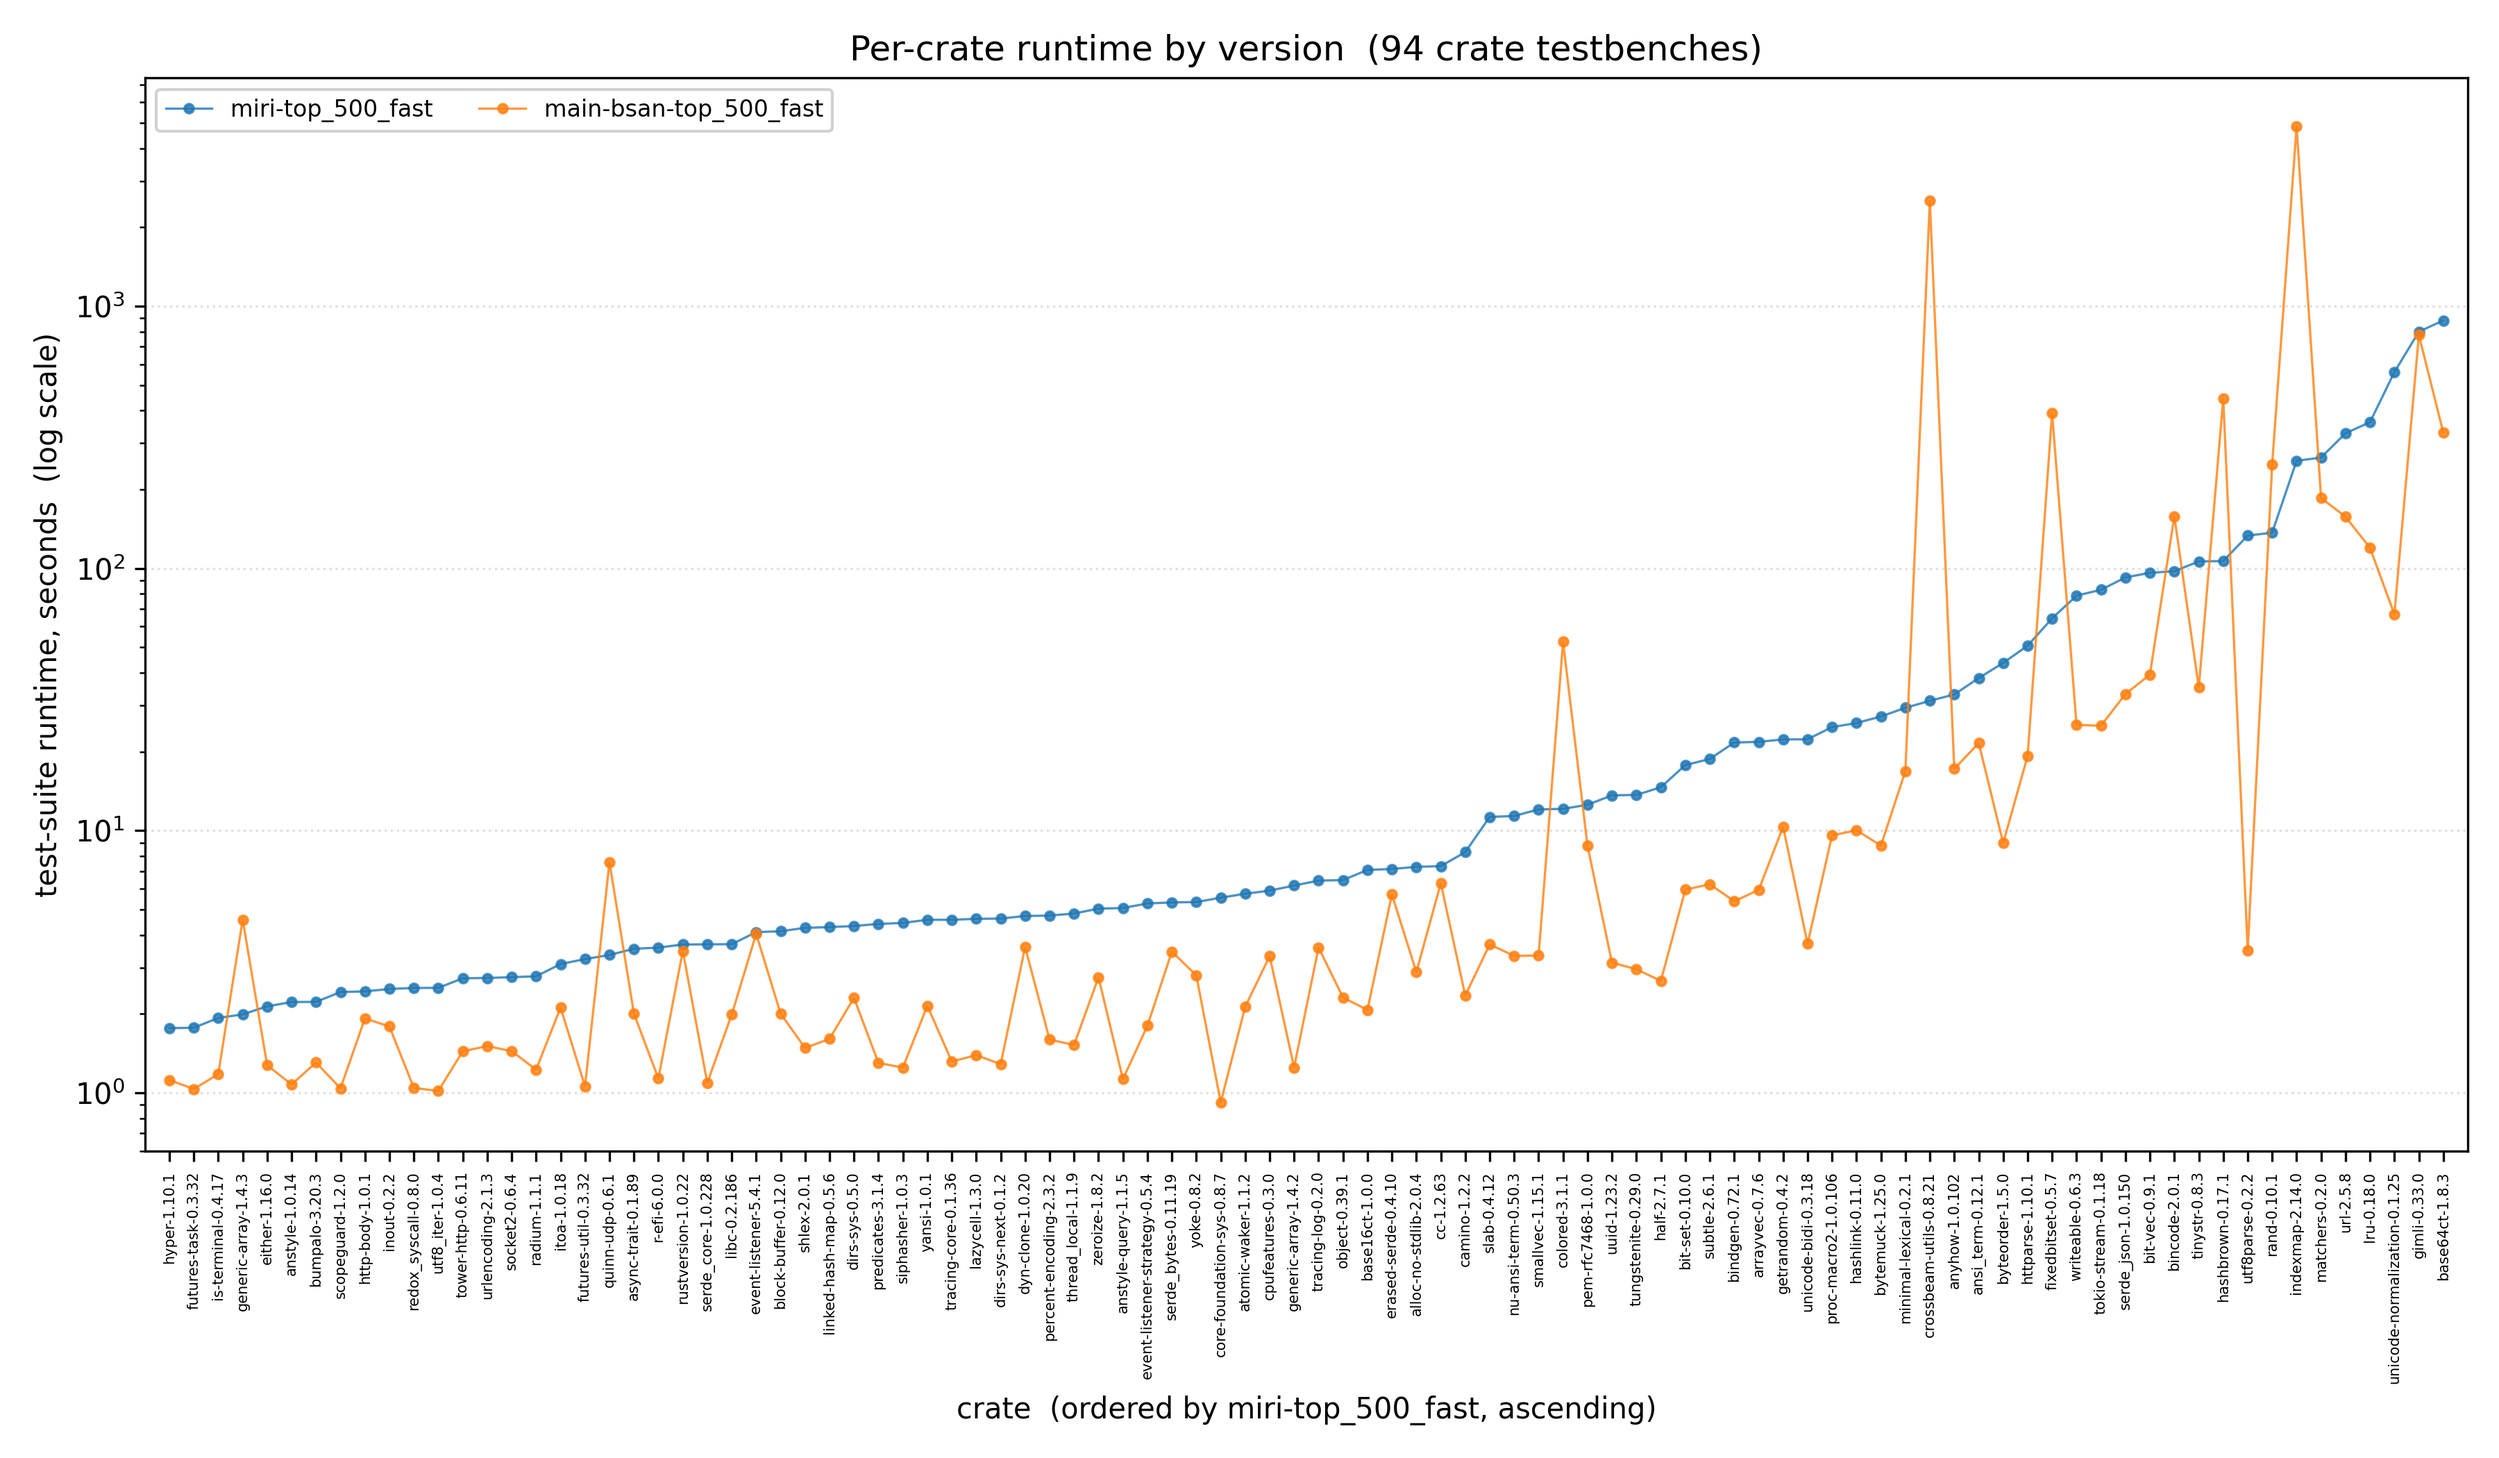
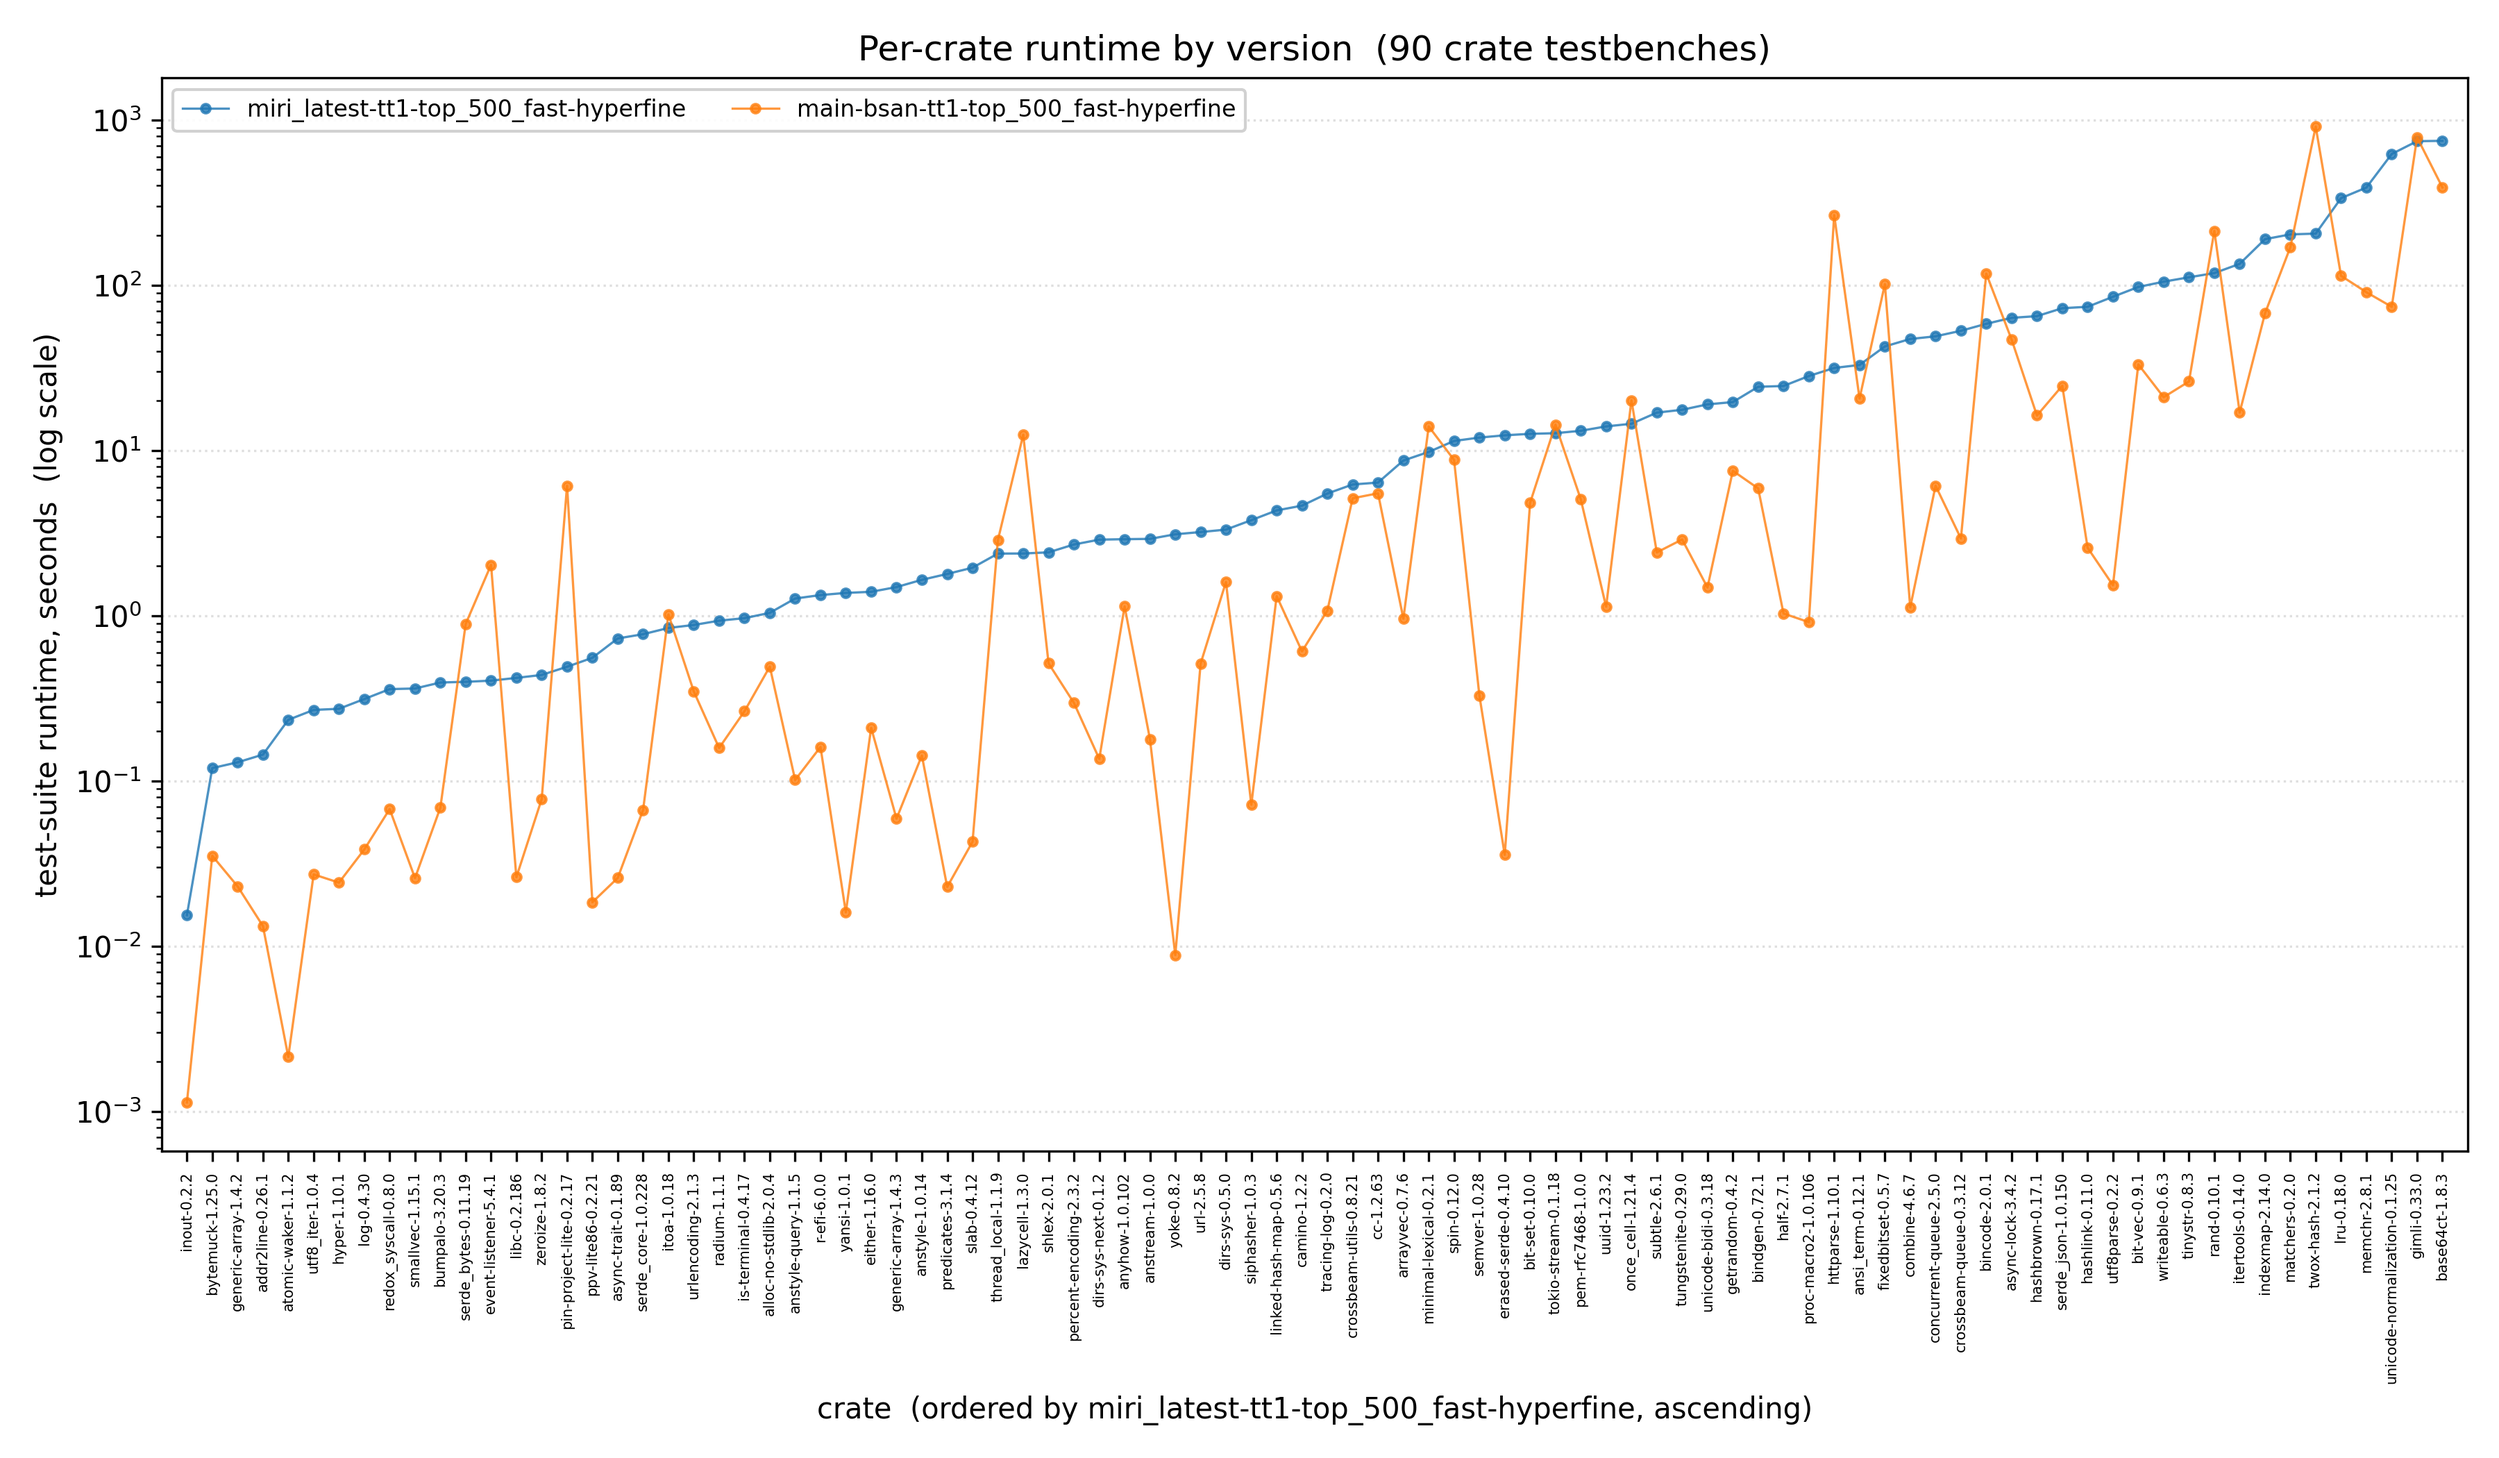
update

diff --git a/scripts/analysis/plot_by_crate.py b/scripts/analysis/plot_by_crate.py
@@ -20,12 +20,17 @@ One series per plotted CSV, crates ordered along the x axis by the first
 plotted series (ascending). Only crates that ran with valid data under every
 input CSV are drawn, so all series cover the same crate set.
 
-A crate is also required to have the SAME passed test count in every input
-(the baseline included, since it sets the ratio): a crate where one image ran
-300 tests and another ran 9 is not measuring the same workload, so its runtime
-difference is mostly a difference in which tests ran. Those crates are listed
-on stdout with their per-input counts rather than silently dropped. Pass
---allow-passed-mismatch to plot them anyway (the pre-existing behaviour).
+A crate is also required to have EVERY test passing in every input (the
+baseline included, since it sets the ratio): if a crate's suite failed partway
+under one image, its runtime is the cost of the part that ran, not of the
+workload the other images completed. Those crates are listed on stdout with
+their per-input passed/tests counts rather than silently dropped. Pass
+--allow-failures to plot them anyway.
+
+Note that all-passing does NOT imply the inputs ran the same NUMBER of tests --
+an input can compile out (#[cfg(not(miri))]) or ignore (#[cfg_attr(miri,
+ignore)]) tests the others ran, and every one that did run then passed. Add
+--require-equal-passed to demand matching counts as well.
 
   metric   what to plot:
              seconds   run_seconds of each CSV
@@ -158,7 +163,15 @@ def aggregate_hyperfine(reader):
 
     data = {}
     zeroed = 0
-    for (crate, _test), row in latest.items():
+    # Per-crate count of real test rows, so the caller can tell "every test
+    # passed" from "every test that produced a timing passed". Rows with an
+    # empty test name are the crate-level fetch/build failure markers, not
+    # tests, and are excluded -- these CSVs are append-only, so a stale failure
+    # row would otherwise mark a since-fixed crate as failing forever.
+    test_rows = {}
+    for (crate, test), row in latest.items():
+        if test:
+            test_rows[crate] = test_rows.get(crate, 0) + 1
         mean = timing(row)
         if mean is None:
             continue                      # not benchmarked -- no timing to add
@@ -170,6 +183,13 @@ def aggregate_hyperfine(reader):
                                       "run_seconds": 0.0, "passed": 0})
         agg["run_seconds"] += net
         agg["passed"] += 1
+
+    # `tests` completes the synthetic row: `passed` counts the rows that
+    # produced a timing, `tests` every row that was a test at all, so
+    # passed == tests means the crate had no test_failed / no_match /
+    # bench_failed row in this input.
+    for crate, agg in data.items():
+        agg["tests"] = test_rows.get(crate, agg["passed"])
 
     # A crate whose every test came out at or below its calibration has no
     # measurable body time left; run_seconds() rejects the 0 and the crate
@@ -291,6 +311,33 @@ def passed_ok(row):
         return False
 
 
+def all_passed(row):
+    """True when every test of the crate passed in this input, False when any
+    failed, None when the row cannot say.
+
+    For a raw CSV `tests`/`passed` are libtest's own counts, summed over the
+    crate's test binaries. For a hyperfine CSV they come from
+    aggregate_hyperfine: `tests` is how many per-test rows the crate has and
+    `passed` how many produced a timing, so passed < tests means the run
+    recorded a test_failed / no_match / bench_failed row.
+
+    A crate with zero tests is not "all passed" -- there is nothing to compare.
+    """
+    try:
+        tests, passed = int(row["tests"]), int(row["passed"])
+    except (KeyError, TypeError, ValueError):
+        return None
+    return passed == tests if tests > 0 else False
+
+
+def passed_fraction(row):
+    """`passed/tests` as a display string, or "?" when the row lacks them."""
+    try:
+        return f'{int(row["passed"])}/{int(row["tests"])}'
+    except (KeyError, TypeError, ValueError):
+        return "?"
+
+
 def passed_count(row):
     """The row's passed test count, or None when it has no usable one. For a
     raw CSV that is the crate's passing-test count; for a hyperfine CSV it is
@@ -348,11 +395,16 @@ def main():
                         help="the list_tests.sh CSV --no-ffi should read. Default: the "
                              "tests-<dataset>.csv whose dataset name appears in the input "
                              "filenames, looked up in <OUTPUTS_DIR> then <repo>/scripts.")
-    parser.add_argument("--allow-passed-mismatch", action="store_true",
-                        help="plot crates whose passed test count differs between inputs. "
-                             "By default they are excluded and listed, since a crate that "
-                             "ran a different number of tests under each image is not the "
-                             "same workload and its runtime difference reflects that.")
+    parser.add_argument("--allow-failures", "--allow-passed-mismatch",
+                        dest="allow_failures", action="store_true",
+                        help="plot crates that had failing tests. By default only crates "
+                             "where EVERY test passed in EVERY input are drawn, since a "
+                             "run that bailed out partway is not the same workload as one "
+                             "that completed. (--allow-passed-mismatch is the old name.)")
+    parser.add_argument("--require-equal-passed", action="store_true",
+                        help="additionally require the passed test COUNT to match across "
+                             "inputs. All-passing does not imply equal counts: an input "
+                             "can compile out or ignore tests the others ran.")
     args = parser.parse_args()
     metric = args.metric
     spec = METRICS[metric]
@@ -474,10 +526,21 @@ def main():
         return [(label, passed_count(data.get(crate) or {}))
                 for label, data in counted]
 
+    def passed_fractions(crate):
+        return [(label, passed_fraction(data.get(crate) or {}))
+                for label, data in counted]
+
+    def clean_everywhere(crate):
+        """True when every input ran the crate with every test passing. An
+        input that cannot report its counts (None) is treated as failing: it
+        cannot be shown clean, and both CSV formats carry the columns."""
+        return all(all_passed(data.get(crate) or {}) is True
+                   for _, data in counted)
+
     def passed_agrees(crate):
-        """True when every input reports the same passed test count for the
-        crate. A missing count counts as disagreement -- it cannot be shown to
-        match, and every CSV format here carries a `passed` column."""
+        """True when every input reports the same passed test count. Only used
+        under --require-equal-passed: all-passing does not imply equal counts,
+        since an input can compile out or ignore tests the others ran."""
         counts = [n for _, n in passed_counts(crate)]
         return None not in counts and len(set(counts)) == 1
 
@@ -508,26 +571,35 @@ def main():
         if with_ffi or unknown:
             print()
 
-    if args.allow_passed_mismatch:
-        kept, mismatched = usable, []
-    else:
-        kept = [c for c in usable if passed_agrees(c)]
-        mismatched = sorted(c for c in usable if not passed_agrees(c))
+    def selected(crate):
+        if not args.allow_failures and not clean_everywhere(crate):
+            return False
+        if args.require_equal_passed and not passed_agrees(crate):
+            return False
+        return True
+
+    kept = [c for c in usable if selected(c)]
+    excluded = sorted(c for c in usable if not selected(c))
     first_data = series[0][1]
     crates = sorted(kept, key=lambda c: value(c, first_data[c]))
 
-    if mismatched:
+    if excluded:
         labels = [label for label, _ in counted]
-        cw = max(max(len(c) for c in mismatched), len("crate")) + 2
-        widths = [max(len(lab), 8) + 2 for lab in labels]
-        print(f"\n{len(mismatched)} crate(s) excluded: the inputs disagree on how "
-              f"many tests passed, so their\nruntimes are not the same workload "
-              f"(plot them anyway with --allow-passed-mismatch):")
+        cw = max(max(len(c) for c in excluded), len("crate")) + 2
+        widths = [max(len(lab), 9) + 2 for lab in labels]
+        why = "not every test passed in every input"
+        if args.allow_failures:
+            why = "the inputs disagree on how many tests passed"
+        elif args.require_equal_passed:
+            why += ", or the counts differ between inputs"
+        print(f"\n{len(excluded)} crate(s) excluded: {why}, so their runtimes are "
+              f"not\nthe same workload (plot them anyway with --allow-failures). "
+              f"Columns are passed/tests:")
         print("crate".ljust(cw)
               + "".join(f"{lab:>{w}}" for lab, w in zip(labels, widths)))
-        for crate in mismatched:
-            cells = "".join(f"{'?' if n is None else n:>{w}}"
-                            for (_, n), w in zip(passed_counts(crate), widths))
+        for crate in excluded:
+            cells = "".join(f"{frac:>{w}}"
+                            for (_, frac), w in zip(passed_fractions(crate), widths))
             print(crate.ljust(cw) + cells)
         print()
 
@@ -579,7 +651,7 @@ def main():
           f"({skipped} crates lacked a usable {metric} value"
           f"{' or a passing test' if check_passed else ''} "
           f"under some input CSV and were skipped"
-          f"{f'; {len(mismatched)} more disagreed on the passed test count' if mismatched else ''}).")
+          f"{f'; {len(excluded)} more had failing tests' if excluded else ''}).")
     print(f"Wrote {out}")
 
     # Per-crate averages of each series over the shared crate set. Every kept
